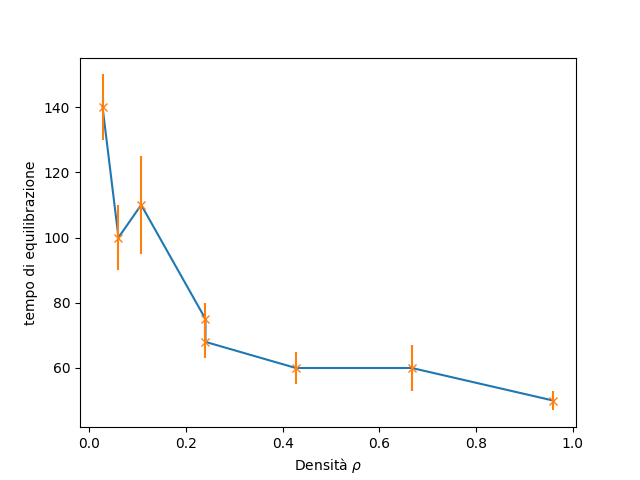
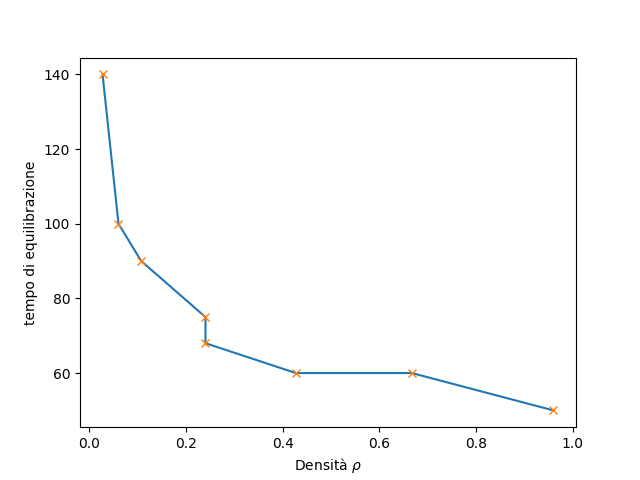
Final commit

diff --git a/Modules/LatticeGasSim.py b/Modules/LatticeGasSim.py
@@ -9,19 +9,21 @@ import matplotlib.patches as patches
 
 class LatticeGasSim:
     
-    """
-    Inizializza tutte le variabili globali utilizzate, genera le regole di collisione, inizializza il reticolo con
-    la densità desiderata e con l'ostacolo desiderato.
-
-    Lx : Dimensione x del reticolo
-    Lx : Dimensione y del reticolo
-    rho : Densità di particelle
-    flowrate : Valore desiderato del flusso di particelle
-    scale : Parametro che influenza il numero di inezioni per ottenere un certo flowrate
-    seed : seed per la generazione di numeri casuali
-    obs_type : tipo di ostacolo desiderato
-    """
     def __init__(self,Lx,Ly,rho=0.2,flowRate=0.2,scale=4,seed=12345678,obs_type="barrier"):
+        """
+        Inizializza tutte le variabili globali utilizzate, genera le regole di collisione, inizializza il reticolo con
+        la densità desiderata e con l'ostacolo desiderato.
+
+        Args:
+        Lx - Dimensione x del reticolo
+        Lx - Dimensione y del reticolo
+        rho - Densità di particelle
+        flowrate - Valore desiderato del flusso di particelle
+        scale - Parametro che influenza il numero di inezioni per ottenere un certo flowrate
+        seed - seed per la generazione di numeri casuali
+        obs_type - tipo di ostacolo desiderato
+        """
+
         # Abbreviazioni per le direzioni
         self.RI = 1      
         self.RD = 2
@@ -83,30 +85,33 @@ class LatticeGasSim:
             self.lattice[self.propx1:self.propx2,self.propy1:self.propy2] = self.B
 
 
-    """
-    Funzione chiamata per progredire con la simulazione.
-
-    n : indica il numero di step che si desidera simulare
-    """
     def simulation(self,n):
+        """
+        Funzione chiamata per progredire con la simulazione.
+
+        Args:
+        n - indica il numero di step che si desidera simulare
+        """
+
         for i in range(n):
             self.lattice = gl.update_lattice(self.lattice).astype(dtype=np.uint8,order='F')
 
-
-    """
-    Funzione che genera un'animazione della simulazione. Questa visualizza le velocità tramite vettori
-    calcolati tramite coarse grained average.
-
-    frames : il numero di frame da disegnare
-    dpf : il numero di step della simulazione per ogni frame
-    dpi : dpi dell'immagine se si sceglie il formato gif
-    filename : nome del file di output dell'animazione
-    formato : formato del file di output (gif o mp4)
-    ave_size : dimensioni del quadrato per coarse grained average
-    scale : parametro per regolare le dimensioni dei vettori
-    """
+  
     def animation2(self,frames,dpf=30,dpi=200,filename="Sim",format="gif",ave_size=10,scale=5):
-        
+        """
+        Funzione che genera un'animazione della simulazione. Questa visualizza le velocità tramite vettori
+        calcolati tramite coarse grained average.
+
+        Args:
+        frames - il numero di frame da disegnare
+        dpf - il numero di step della simulazione per ogni frame
+        dpi - dpi dell'immagine se si sceglie il formato gif
+        filename - nome del file di output dell'animazione
+        formato - formato del file di output (gif o mp4)
+        ave_size - dimensioni del quadrato per coarse grained average
+        scale - parametro per regolare le dimensioni dei vettori
+        """
+
         # Funzione che genere il nuovo frame dell'animazione
         def update(frame):              
             
@@ -176,15 +181,17 @@ class LatticeGasSim:
 
 class LatticeGasSimPcb:
 
-    """
-    Inizializza tutte le variabili globali utilizzate, genera le regole di collisione, inizializza il reticolo con
-    la densità desiderata e con l'ostacolo desiderato.
-
-    L : Dimensione del reticolo L*L
-    b : Dimensioni del quadrato di particelle iniziale
-    seed : seed per la generazione di numeri casuali
-    """
     def __init__(self,L,b,seed=12345678):
+        """
+        Inizializza tutte le variabili globali utilizzate, genera le regole di collisione, inizializza il reticolo con
+        la densità desiderata e con l'ostacolo desiderato.
+
+        Args:
+        L - Dimensione del reticolo L*L
+        b - Dimensioni del quadrato di particelle iniziale
+        seed - seed per la generazione di numeri casuali
+        """
+    
         # Abbreviazioni per le direzioni
         self.RI = 1      
         self.RD = 2
@@ -225,22 +232,27 @@ class LatticeGasSimPcb:
         self.havey = []
         
 
-    """
-    Tramite la funzione count_lattice() genera un array per colorare il reticolo, barr è il colore della barriera 
-    e parr quello delle particelle, entrambi in formato RGB.
-    """
+    
     def draw_colors(self):
+        """
+        Tramite la funzione count_lattice() genera un array per colorare il reticolo, barr è il colore della barriera 
+        e parr quello delle particelle, entrambi in formato RGB.
+        """
+
         barr = np.array([1.,0.,0.])
         parr = np.array([0.,0.,1.])
         return gl.count_lattice(barr,parr,self.lattice)
 
 
-    """
-    Funzione chiamata per progredire con la simulazione.
-
-    n : indica il numero di step che si desidera simulare
-    """
+    
     def simulation(self,n):
+        """
+        Funzione chiamata per progredire con la simulazione.
+
+        Args:
+        n - indica il numero di step che si desidera simulare
+        """
+
         for i in range(n):
             self.lattice = gl.update_lattice_pcb(self.lattice).astype(dtype=np.uint8,order='F')
 
@@ -261,17 +273,21 @@ class LatticeGasSimPcb:
         self.havey.append(hvey)
         self.avex.append(avx/self.N)
         self.avey.append(avy/self.N)
-    """
-    Funzione che genera un'animazione della simulazione. Questa visualizza le velocità tramite vettori
-    calcolati tramite coarse grained average.
 
-    frames : il numero di frame da disegnare
-    dpf : il numero di step della simulazione per ogni frame
-    dpi : dpi dell'immagine se si sceglie il formato gif
-    filename : nome del file di output dell'animazione
-    formato : formato del file di output (gif o mp4)
-    """
+
+    
     def animation1(self,frames,dpf=30,dpi=80,filename="Sim",format="gif",fps=10):
+        """
+        Funzione che genera un'animazione della simulazione. Questa visualizza le velocità tramite vettori
+        calcolati tramite coarse grained average.
+        
+        Args:
+        frames - il numero di frame da disegnare
+        dpf - il numero di step della simulazione per ogni frame
+        dpi - dpi dell'immagine se si sceglie il formato gif
+        filename - nome del file di output dell'animazione
+        formato - formato del file di output (gif o mp4)
+        """
 
         # Funzione che genera i frame dell'animazione
         def update(frame): 

diff --git a/tests.py b/tests.py
@@ -1,0 +1,30 @@
+from Modules.LatticeGasSim import LatticeGasSimPcb
+import os
+import matplotlib.pyplot as plt
+import matplotlib.animation as animation
+os.system('clear')
+
+# Animazione dell'istogramma
+lgs = LatticeGasSimPcb(40,4)
+lgs.animation1(frames=200,dpf=3,fps=1,filename="/No_commit/test")
+plt.clf()
+
+
+
+figure, axs = plt.subplots()
+def update(frames):
+    plt.cla()
+    axs.hist(lgs.havex[frames])
+    axs.set_title(frames*3)
+
+ani = animation.FuncAnimation(figure, func = update, frames = 200)
+
+plt.show()
+
+# Plot del grafico
+plt.xlabel(r"Densità $\rho$")
+plt.ylabel("tempo di equilibrazione")
+plt.plot([0.027,0.06,0.107,0.24,0.24,0.427,0.667,0.96],[140,100,90,75,68,60,60,50])
+plt.errorbar([0.027,0.06,0.107,0.24,0.24,0.427,0.667,0.96],[140,100,90,75,68,60,60,50],marker="x",linestyle='')
+
+plt.show()
